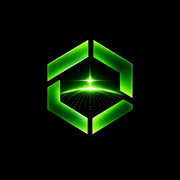
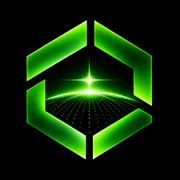
Make the brand marks actually transparent
The luminance-to-alpha pass skipped pure-black pixels, so every "transparent"
mark kept an opaque black box (visible behind the nav logo). Set alpha for
every pixel, trim the arc mark to its real aspect for the nav and footer, and
keep the browser icons on an explicit black tile so they read on light chrome.

Agent: omp / anthropic claude-opus-5-5

diff --git a/scripts/assets.ts b/scripts/assets.ts
@@ -18,11 +18,11 @@ async function transparent(file: string, size: number): Promise<Buffer> {
   const { data, info } = await sharp(src(file)).resize(size, size).ensureAlpha().raw().toBuffer({ resolveWithObject: true });
   for (let i = 0; i < data.length; i += 4) {
     const a = Math.max(data[i]!, data[i + 1]!, data[i + 2]!);
+    data[i + 3] = a;
     if (a === 0) continue;
     data[i] = Math.min(255, Math.round((data[i]! * 255) / a));
     data[i + 1] = Math.min(255, Math.round((data[i + 1]! * 255) / a));
     data[i + 2] = Math.min(255, Math.round((data[i + 2]! * 255) / a));
-    data[i + 3] = a;
   }
   return sharp(data, { raw: { width: info.width, height: info.height, channels: 4 } }).png().toBuffer();
 }
@@ -42,8 +42,8 @@ const trimmed = await sharp(hex).trim({ threshold: 4 }).toBuffer({ resolveWithOb
 const square = (buf: Buffer, size: number, pad = 0) =>
   sharp(buf).resize(size - pad * 2, size - pad * 2, { fit: "contain", background: { r: 0, g: 0, b: 0, alpha: 0 } })
     .extend({ top: pad, bottom: pad, left: pad, right: pad, background: { r: 0, g: 0, b: 0, alpha: 0 } });
-const arcLogo = await transparent("arc-logo-1024.png", 1024);
-await emit("arc-160", square(arcLogo, 160));
+const arcLogo = await sharp(await transparent("arc-logo-1024.png", 1024)).trim({ threshold: 6 }).toBuffer();
+await emit("arc-160", sharp(arcLogo).resize({ width: 160 }));
 // Hero arc stays opaque (blended with mix-blend-mode: screen on the page): its black is not pure black.
 const arcBox = await sharp(src("arc-logo-1024.png")).trim({ background: "#000", threshold: 24 }).toBuffer({ resolveWithObject: true });
 const pad = 24;
@@ -66,11 +66,12 @@ const og = await sharp({ create: { width: 1200, height: 630, channels: 3, backgr
   .toBuffer();
 await writeFile(join(pub, "og.png"), og);
 
-// Icons from the transparent mark.
-const icon = (size: number, pad: number) => square(trimmed.data, size, pad).png({ palette: true, quality: 90, effort: 10 }).toBuffer();
+// Icons: the transparent mark on an opaque black tile, so it reads the same on light and dark browser chrome.
+const icon = async (size: number, pad: number) =>
+  sharp(await square(trimmed.data, size, pad).png().toBuffer()).flatten({ background: "#000" }).png({ palette: true, quality: 90, effort: 10 }).toBuffer();
 await writeFile(join(pub, "icon-192.png"), await icon(192, 16));
 await writeFile(join(pub, "icon-512.png"), await icon(512, 40));
-await writeFile(join(pub, "apple-touch-icon.png"), await sharp(await icon(180, 20)).flatten({ background: "#000" }).png().toBuffer());
+await writeFile(join(pub, "apple-touch-icon.png"), await icon(180, 20));
 await writeFile(join(pub, "favicon-32.png"), await icon(32, 1));
 
 // PNG-in-ICO: 16, 32, 48.
